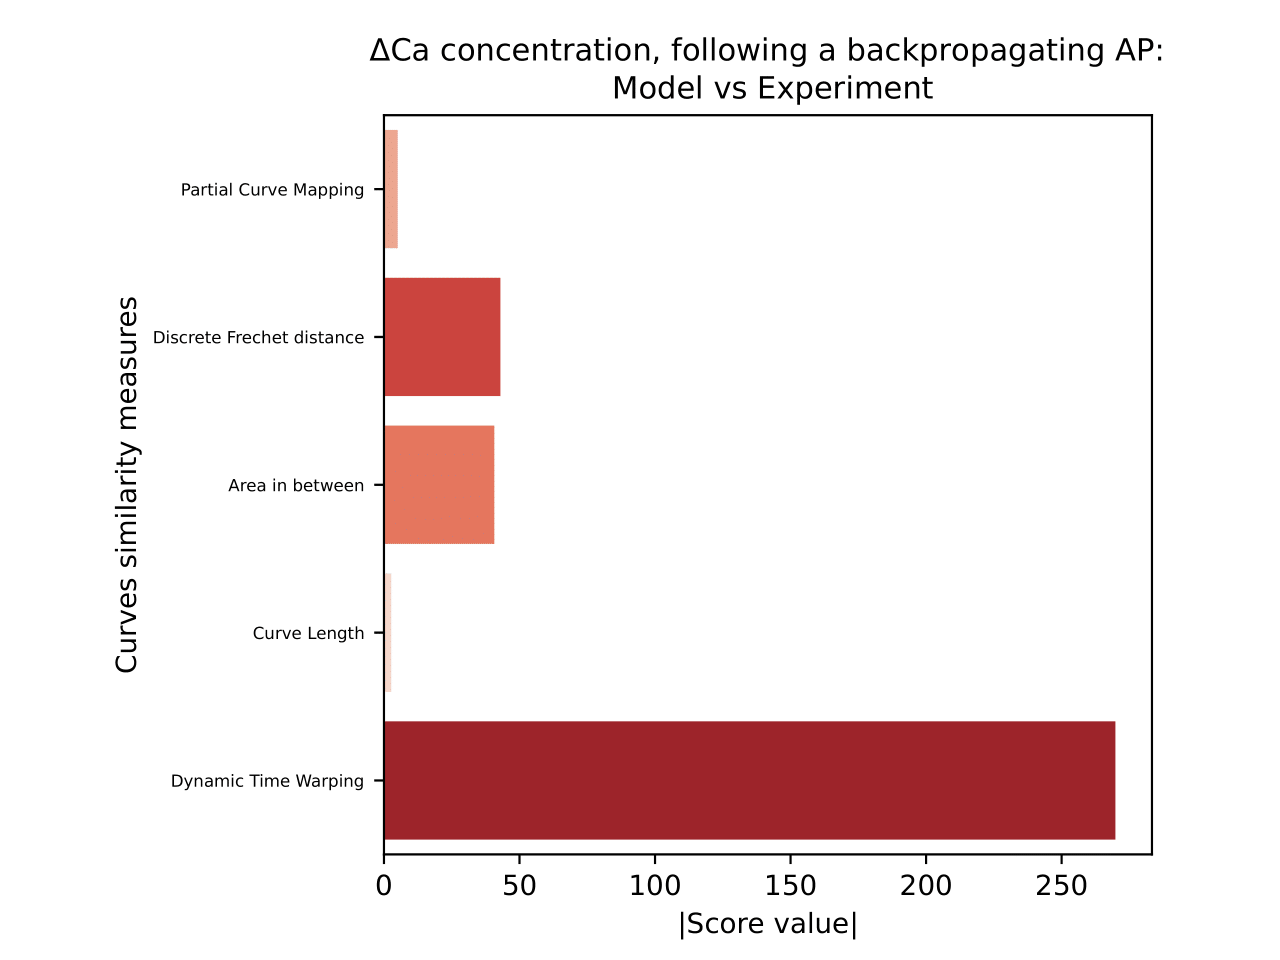
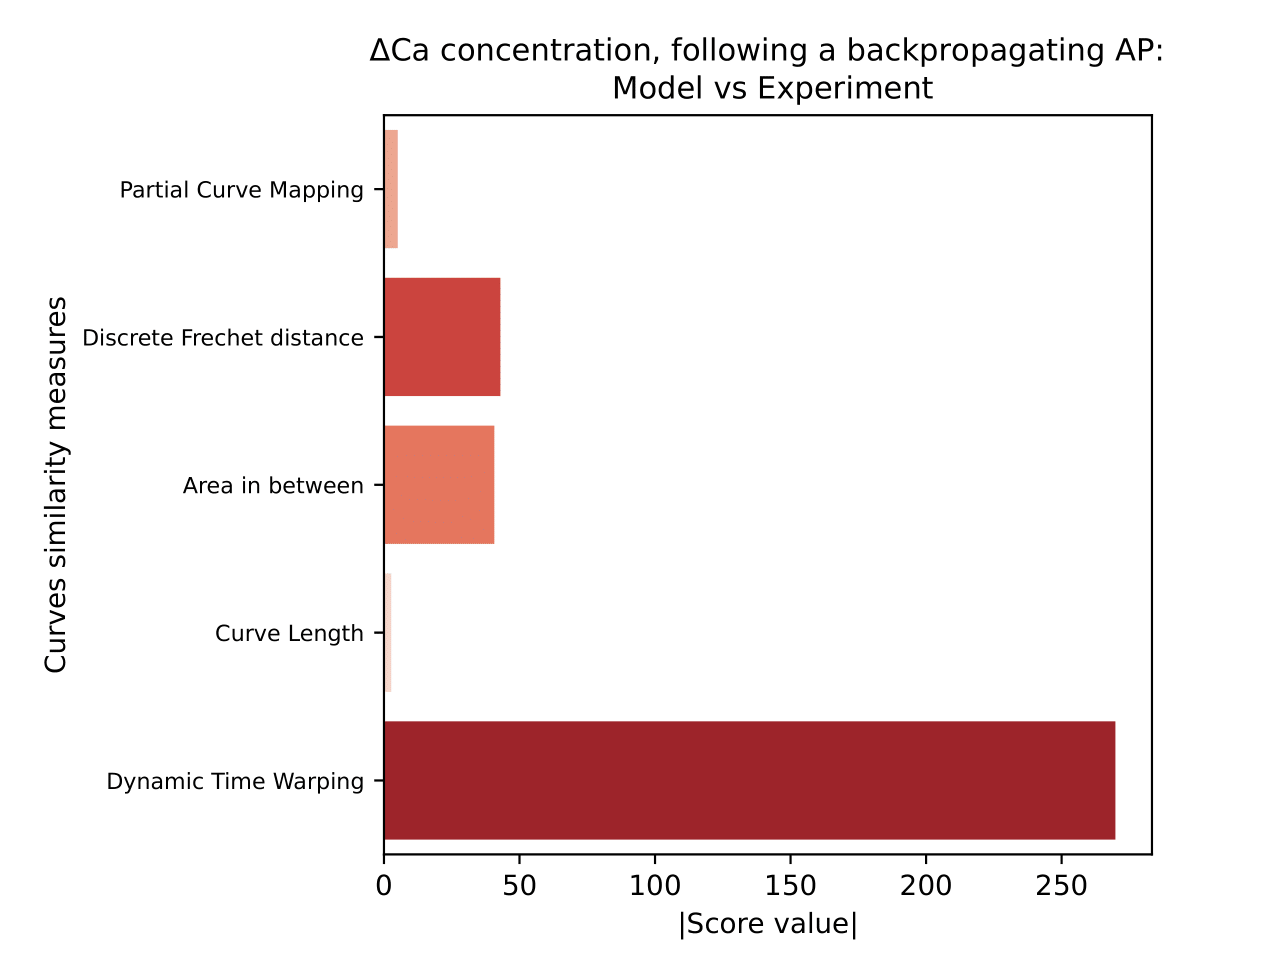
Minor fixes

diff --git a/basalunit/plots/plot_score_bars.py b/basalunit/plots/plot_score_bars.py
@@ -66,6 +66,6 @@ class ScoresBars:
         plt.close('all')
         self.score_barplot(filepath=filepath_scores_float, scores_floats=scores_dict,
                             score_label=self.score_label, ylabel=self.score_label, xlabel=self.xlabel,
-                            x_fontsize=6, y_fontsize=6, title=self.plt_title)
+                            x_fontsize=9, y_fontsize=9, title=self.plt_title)
 
         return self.filepath_list
